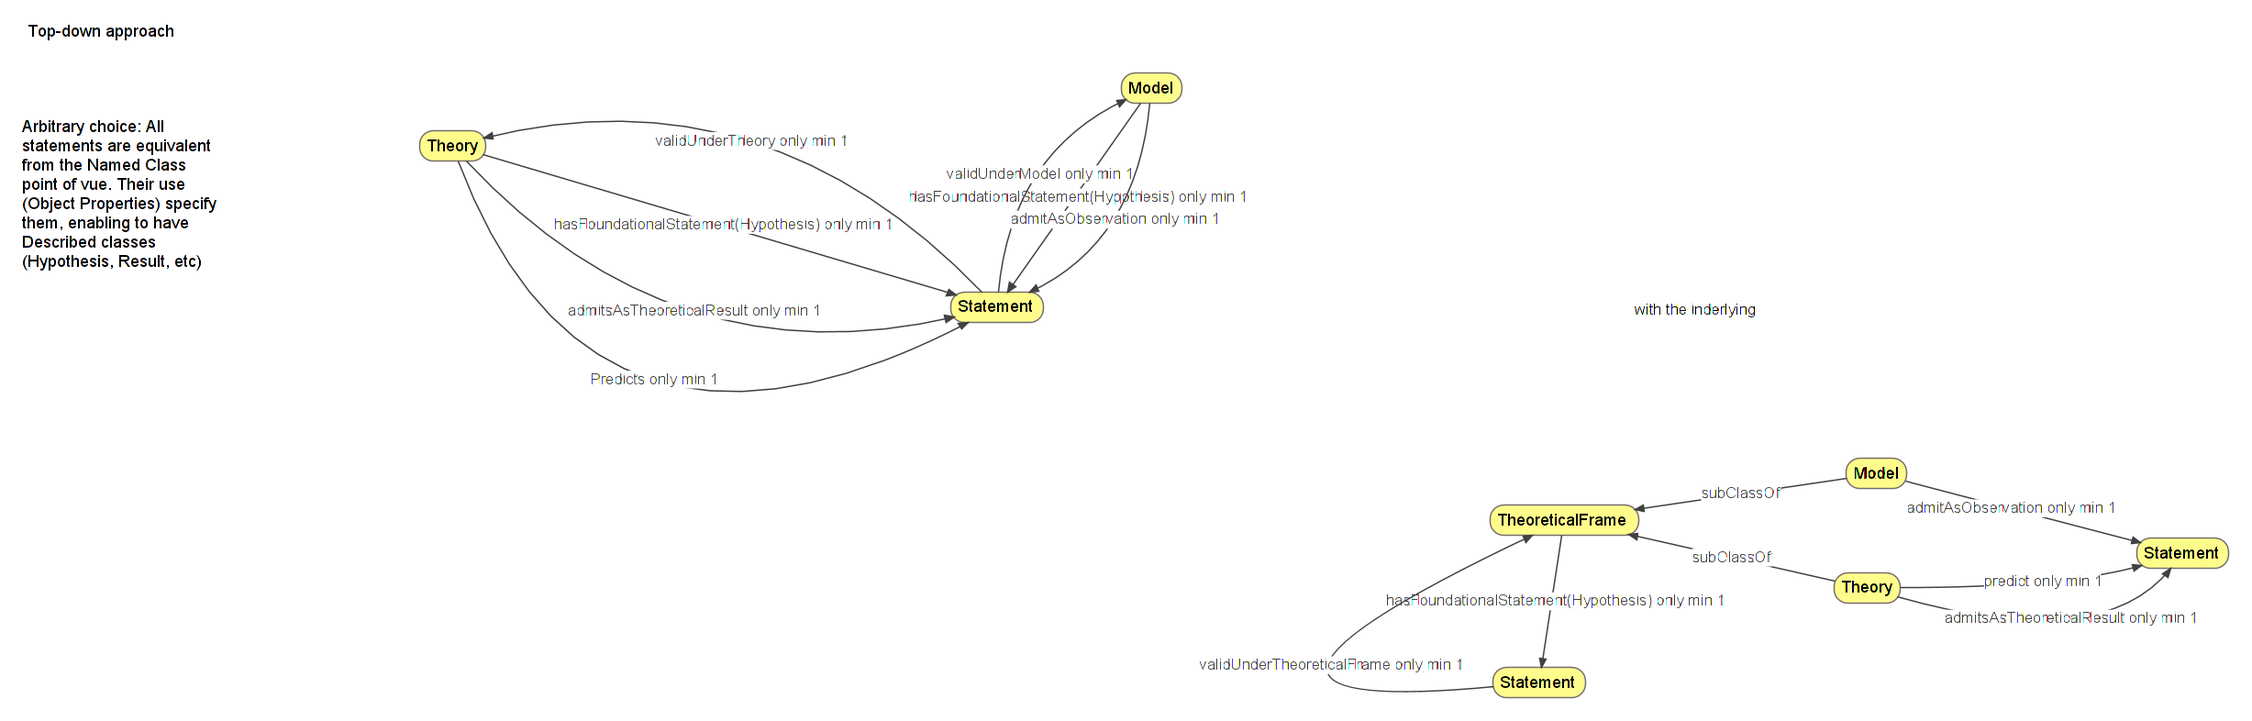
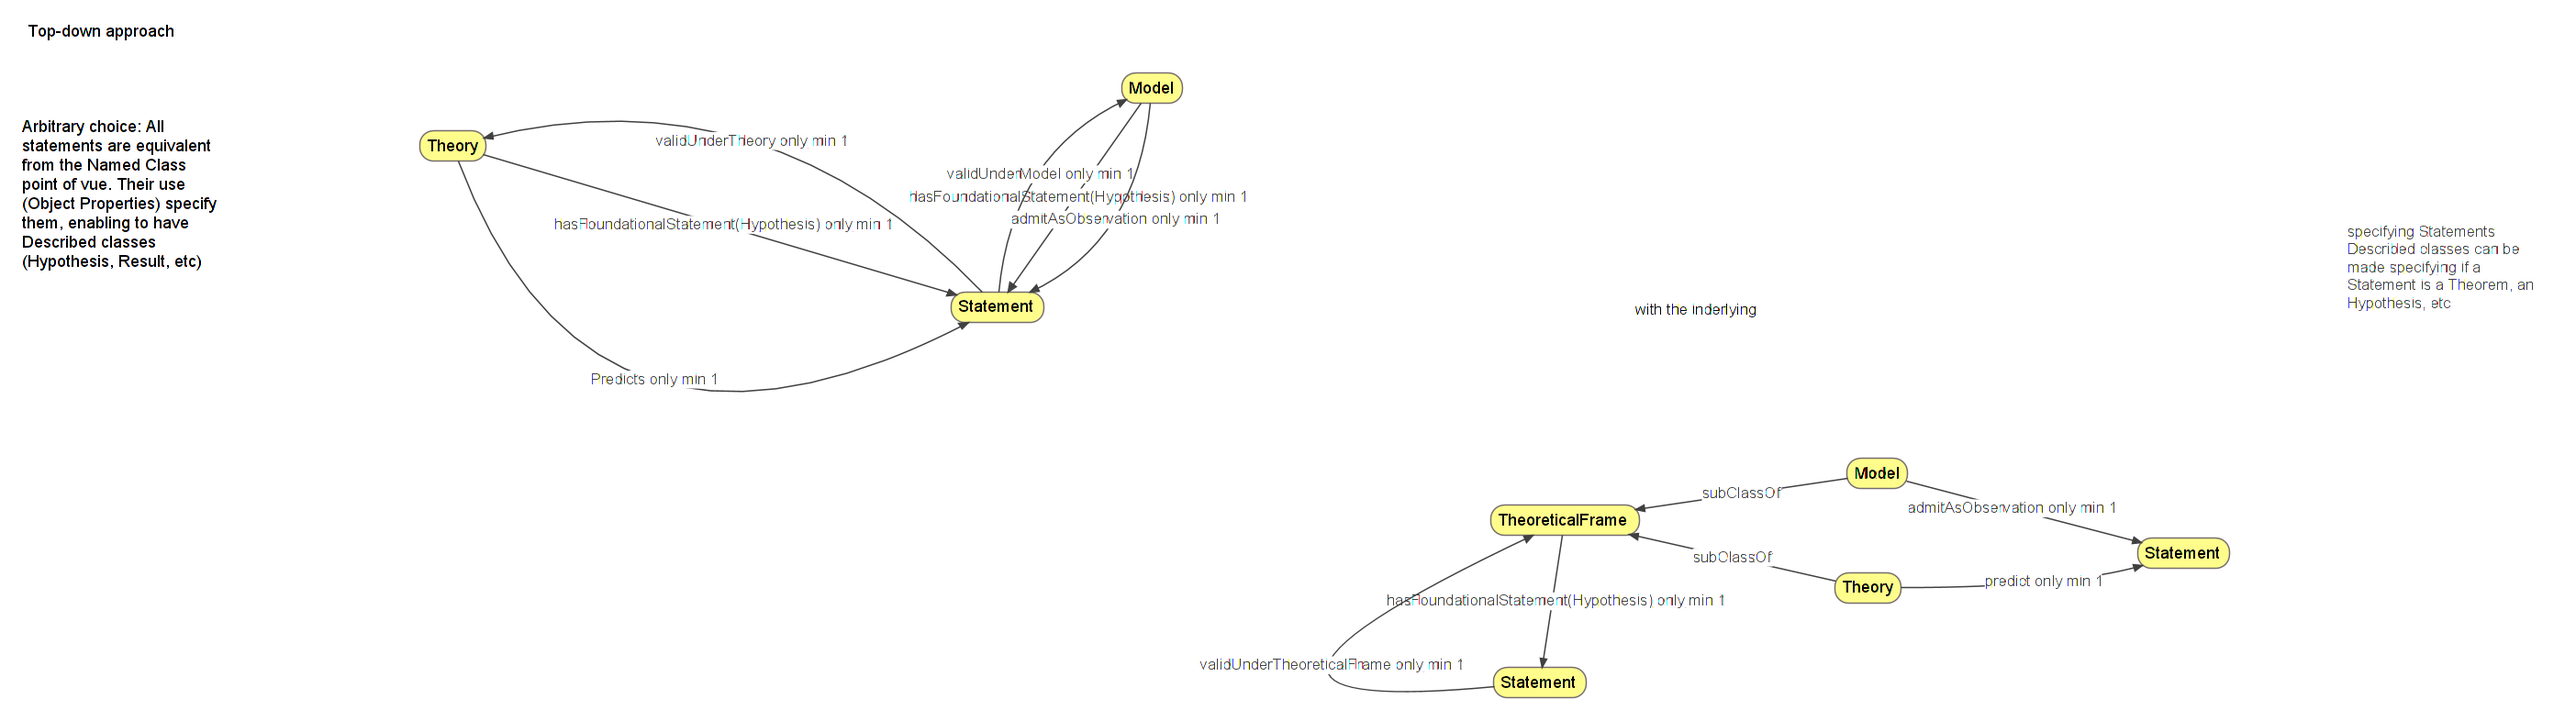
added sci-notebook entry and sci-viz.png

diff --git a/project/sci/sketch/model-theory-statement.vue b/project/sci/sketch/model-theory-statement.vue
@@ -1,18 +1,18 @@
 <!-- Tufts VUE 3.2.2 concept-map (model-theory-statement.vue) 2015-01-29 -->
 <!-- Tufts VUE: http://vue.tufts.edu/ -->
 <!-- Do Not Remove: VUE mapping @version(1.1) jar:file:/opt/VUE/VUE.jar!/tufts/vue/resources/lw_mapping_1_1.xml -->
-<!-- Do Not Remove: Saved date Thu Jan 29 11:32:10 CET 2015 by jibe on platform Linux 3.13.0-43-generic in JVM 1.7.0_65-b32 -->
+<!-- Do Not Remove: Saved date Thu Jan 29 12:27:59 CET 2015 by jibe on platform Linux 3.13.0-43-generic in JVM 1.7.0_65-b32 -->
 <!-- Do Not Remove: Saving version @(#)VUE: built May 23 2013 at 2146 by tomadm on Linux 2.6.18-348.2.1.el5 i386 JVM 1.7.0_21-b11(bits=32) -->
 <?xml version="1.0" encoding="US-ASCII"?>
 <LW-MAP xmlns:xsi="http://www.w3.org/2001/XMLSchema-instance"
     xsi:noNamespaceSchemaLocation="none" ID="0"
     label="model-theory-statement.vue" created="1422526861720" x="0.0"
-    y="0.0" width="1.4E-45" height="1.4E-45" strokeWidth="0.0" autoSized="false">
-    <resource referenceCreated="1422527531063"
-        spec="/home/www-factory/project/pso/model-theory-statement.vue"
+    y="0.0" width="1604.375" height="491.5" strokeWidth="0.0" autoSized="false">
+    <resource referenceCreated="1422530879982" size="21911"
+        spec="/home/www-factory/project/sci/sketch/model-theory-statement.vue"
         type="1" xsi:type="URLResource">
         <title>model-theory-statement.vue</title>
-        <property key="File" value="/home/www-factory/project/pso/model-theory-statement.vue"/>
+        <property key="File" value="/home/www-factory/project/sci/sketch/model-theory-statement.vue"/>
     </resource>
     <fillColor>#FFFFFF</fillColor>
     <strokeColor>#404040</strokeColor>
@@ -180,20 +180,6 @@
         <ID2 xsi:type="node">8</ID2>
         <ctrlPoint0 x="832.4167" y="176.81133" xsi:type="point"/>
     </child>
-    <child ID="18" label="admitsAsTheoreticalResult only min 1"
-        layerID="1" created="1422527175387" x="344.7395" y="117.5"
-        width="355.14935" height="125.091324" strokeWidth="1.0"
-        autoSized="false" controlCount="1" arrowState="2" xsi:type="link">
-        <strokeColor>#404040</strokeColor>
-        <textColor>#404040</textColor>
-        <font>Arial-plain-11</font>
-        <URIString>http://vue.tufts.edu/rdf/resource/353f88727f0001016b207925b66ea1d8</URIString>
-        <point1 x="345.2395" y="118.0"/>
-        <point2 x="699.38885" y="231.27003"/>
-        <ID1 xsi:type="node">6</ID1>
-        <ID2 xsi:type="node">8</ID2>
-        <ctrlPoint0 x="495.1132" y="279.00516" xsi:type="point"/>
-    </child>
     <child ID="20" label="Predicts only min 1" layerID="1"
         created="1422527206015" x="338.64578" y="117.5"
         width="371.26492" height="168.19257" strokeWidth="1.0"
@@ -300,20 +286,6 @@
         <ID2 xsi:type="node">25</ID2>
         <ctrlPoint0 x="1457.0" y="368.0" xsi:type="point"/>
     </child>
-    <child ID="31" label="admitsAsTheoreticalResult only min 1"
-        layerID="1" created="1422527251496" x="1384.6088" y="413.6537"
-        width="214.58838" height="43.509766" strokeWidth="1.0"
-        autoSized="false" controlCount="1" arrowState="2" xsi:type="link">
-        <strokeColor>#404040</strokeColor>
-        <textColor>#404040</textColor>
-        <font>Arial-plain-11</font>
-        <URIString>http://vue.tufts.edu/rdf/resource/353f888a7f0001016b207925427941ea</URIString>
-        <point1 x="1385.1088" y="434.50018"/>
-        <point2 x="1583.6796" y="414.1537"/>
-        <ID1 xsi:type="node">23</ID1>
-        <ID2 xsi:type="node">25</ID2>
-        <ctrlPoint0 x="1534.0" y="477.0" xsi:type="point"/>
-    </child>
     <child ID="32" label="predict only min 1" layerID="1"
         created="1422527251496" x="1386.375" y="411.23148"
         width="176.68042" height="19.233368" strokeWidth="1.0"
@@ -382,12 +354,49 @@
         <ID1 xsi:type="node">24</ID1>
         <ID2 xsi:type="node">21</ID2>
     </child>
+    <child ID="39"
+        label="specifying Statements&#xa;    &#xa;    &#xa;      Described classes can be made specifying if a Statement is a Theorem, an &#xa;      Hypothesis, etc"
+        layerID="1" created="1422530281284" x="1711.0" y="163.0"
+        width="150.0" height="67.0" strokeWidth="0.0" autoSized="false" xsi:type="text">
+        <strokeColor>#404040</strokeColor>
+        <textColor>#000000</textColor>
+        <font>SansSerif-plain-14</font>
+        <URIString>http://vue.tufts.edu/rdf/resource/3569f1e67f0001016b2079253ea21357</URIString>
+        <richText>&lt;html&gt;
+  &lt;head style="color: #404040" color="#404040"&gt;
+    &lt;style type="text/css"&gt;
+      &lt;!--
+        body { margin-left: 0px; margin-right: 0px; color: #404040; margin-top: 0px; margin-bottom: 0px; font-size: 11; font-family: Arial }
+        ol { margin-left: 30; vertical-align: middle; list-style-position: outside; margin-top: 6; font-size: 11; font-family: Arial }
+        p { margin-left: 0; margin-right: 0; color: #404040; margin-top: 0; margin-bottom: 0 }
+        ul { margin-left: 30; vertical-align: middle; list-style-position: outside; margin-top: 6; font-size: 11; font-family: Arial }
+      --&gt;
+    &lt;/style&gt;
+    
+  &lt;/head&gt;
+  &lt;body&gt;
+    &lt;p style="color: #404040" color="#404040"&gt;
+      specifying Statements
+    &lt;/p&gt;
+    &lt;p style="color: #404040" color="#404040"&gt;
+      Described classes can be made specifying if a Statement is a Theorem, an 
+      Hypothesis, etc
+    &lt;/p&gt;
+  &lt;/body&gt;
+&lt;/html&gt;
+</richText>
+        <label>specifying Statements
+    
+    
+      Described classes can be made specifying if a Statement is a Theorem, an 
+      Hypothesis, etc</label>
+    </child>
     <layer ID="1" label="Layer 1" created="1422526861733" x="0.0"
         y="0.0" width="1.4E-45" height="1.4E-45" strokeWidth="0.0" autoSized="false">
         <URIString>http://vue.tufts.edu/rdf/resource/353f88947f0001016b2079253b5ae28d</URIString>
     </layer>
     <userZoom>1.0</userZoom>
-    <userOrigin x="-14.0" y="-14.0"/>
+    <userOrigin x="-14.0" y="-35.0"/>
     <presentationBackground>#202020</presentationBackground>
     <PathwayList currentPathway="0" revealerIndex="-1">
         <pathway ID="0" label="Chemin sans nom" created="1422526861710"
@@ -439,6 +448,6 @@
     </PathwayList>
     <date>2015-01-29</date>
     <modelVersion>6</modelVersion>
-    <saveLocation>/home/www-factory/project/pso</saveLocation>
-    <saveFile>/home/www-factory/project/pso/model-theory-statement.vue</saveFile>
+    <saveLocation>/home/www-factory/project/sci/sketch</saveLocation>
+    <saveFile>/home/www-factory/project/sci/sketch/model-theory-statement.vue</saveFile>
 </LW-MAP>

diff --git a/project/pso/index.html b/project/pso/index.html
@@ -39,9 +39,9 @@
 <h2 id="last-released-version">Last released version</h2>
 <p><a href="../../ontology/pso.owl">version-0.0.1</a></p>
 <h3 id="graph-visualisation">Graph visualisation</h3>
-<p><a href="http://vowl.visualdataweb.org/webvowl/index.html#iri=http://jibe-b.github.io/ontology/pso.owl"><img alt="PSO" width="100%" src="pso-viz.png">Interactive visualisation</img></a></p>
+<p><a href="http://vowl.visualdataweb.org/webvowl/index.html#iri=http://jibe-b.github.io/ontology/pso/pso.owl"><img alt="PSO" width="100%" src="visualisation/pso-viz.png">Interactive visualisation</img></a></p>
 <h3 id="tree-visualisation">Tree visualisation</h3>
-<p><a href="http://opendata1.opendata.u-psud.fr:8080/webprotege/#Edit:projectId=27a08a93-6a87-4d3d-a018-a6c8212fb414"><img alt="Protégé snapshot" width="100%" src="protege-snapshot.png">Webprotégé</img></a></p>
+<p><a href="http://opendata1.opendata.u-psud.fr:8080/webprotege/#Edit:projectId=27a08a93-6a87-4d3d-a018-a6c8212fb414"><img alt="Protégé snapshot" width="100%" src="visualisation/protege-snapshot.png">Webprotégé</img></a></p>
 <h2 id="development-version">Development version</h2>
 <p><a href="pso-development.html">version in development</a> (on <a href="http://www.opendata.u-psud.fr">OpenData@UPSud</a>)</p>
 <h2 id="development-notebook">Development Notebook</h2>

diff --git a/project/sci/index.html b/project/sci/index.html
@@ -31,6 +31,7 @@
 <body>
 <p><a href="https://github.com/jibe-b/jibe-b.github.io"><img style="position: absolute; top: 0; right: 0; border: 0;" src="https://camo.githubusercontent.com/e7bbb0521b397edbd5fe43e7f760759336b5e05f/68747470733a2f2f73332e616d617a6f6e6177732e636f6d2f6769746875622f726962626f6e732f666f726b6d655f72696768745f677265656e5f3030373230302e706e67" alt="Fork me on GitHub" data-canonical-src="https://s3.amazonaws.com/github/ribbons/forkme_right_green_007200.png"></a></p>
 <p><nav> <a href="../../../index.html">Home</a> <a href="../../../project/">Projects</a> <a href="../../../ontology/">PSO ontology</a> <a href="../../../blog/">Blog</a> <a href="../../../aboutme.html">About</a> <a href="http://hypothes.is/">Comment with Hypothes.is</a> </nav></p>
+<p><a href="http://vowl.visualdataweb.org/webvowl/index.html#iri=http://jibe-b.github.io/ontology/sci/sci.owl"><img alt="SCI" width="100%" src="visualisation/sci-viz.png">Interactive visualisation</img></a></p>
 <p><a href="sci-notebook.html">SCI notebook</a></p>
 <hr />
 <p>Jibé <a href="https://twitter.com/jibe_jeybee">@jibe_jeybee</a> <a href="aboutme.html">About me</a></p>

diff --git a/project/sci/sci-notebook.html b/project/sci/sci-notebook.html
@@ -34,7 +34,11 @@
 <div id="header">
 <h1 class="title">SCI development notebook</h1>
 </div>
-<h2 id="sci-model-theory-statement">[SCI] Model, theory, statement</h2>
+<h2 id="first-elements-and-axioms-in-sci">First elements and axioms in SCI</h2>
+<p>2015-29-01, Jibé</p>
+<p>Defined Theoretical frames (model and theory) and relationships and wrote corresponding axioms.</p>
+<p><a href="sci-viz.png">archive/2015-29-01</a></p>
+<h2 id="model-theory-statement">Model, theory, statement</h2>
 <p>2015-29-01, Jibé</p>
 <p>The relationships between a model, a theory and a statement are defined basically as:</p>
 <ul>
